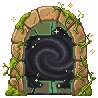
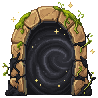
deploy vie 31/07/2026 18:35:05,37

diff --git a/public/game/boot.js b/public/game/boot.js
@@ -73,7 +73,7 @@ class BootScene extends Phaser.Scene {
     L.push(["tree_half", P + "tree_half.png"]);   // mitad del enfriamiento: árbol pelado con pocas ramas (PixelLab 31/7)
     L.push(["pond", P + "pond.png?v=2"]);
     L.push(["portal", P + "portal.png"]);   // portal al Bosque (frame quieto de respaldo)
-    for (let i = 0; i < 8; i++) L.push(["portal_" + i, P + "portal_" + i + ".png?v=3"]);   // v3: vórtice NEGRO (viernes 2)
+    for (let i = 0; i < 8; i++) L.push(["portal_" + i, P + "portal_" + i + ".png?v=4"]);   // v4: negro TODO el interior (antes quedaba el anillo verde del borde)
     // v3: nodos plantados en la tierra + estados dañados (intermedio del cooldown)
     ["node_stone","node_bronze","node_gold","node_diamond","node_netherite"]
       .forEach(k => { L.push([k, P + k + ".png?v=3"]); L.push([k + "_half", P + k + "_half.png"]); });
